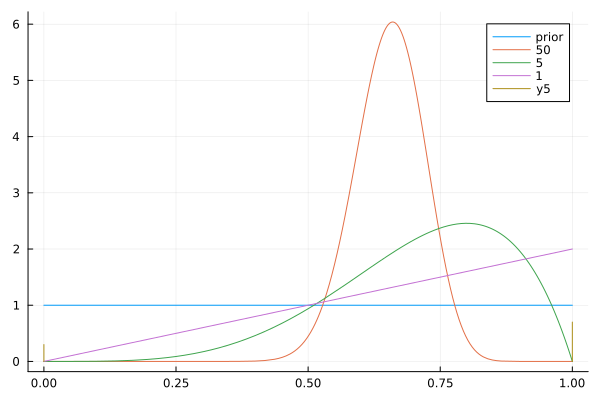
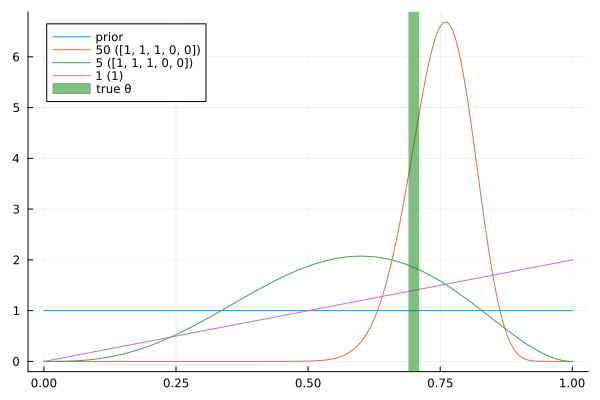
nun wir fuer jeden Schritt die selben samples verwendet

diff --git a/excercise1/exercise1.md b/excercise1/exercise1.md
@@ -6,9 +6,16 @@
 
 ![](4c.png)
 
+Je mehr Samples man zieht, desto mehr nähert sich die Verteilung des Posteriors dem tatsächlichen `p` an.
+
 
 ### d)
 
 ![](4d.png)
+
+Der neue Prior ist nun keine Gleichverteilung mehr, sondern ähenlt der tatsächlichen Verteilung nun schon etwas mehr. Der Unterschied lässt sich gut an dem Posterior nach einem Experiment sehen (lila Kurve). Wo oben nur eine schiefe Linie zu sehen ist, ist der Posterior bei einem informierten Prior schon nach einem Experiment dem tatsächlichen Wert viel näher. Nach 5 oder auch 50 Experimenten ist der Unterschied aber nicht mehr auszumachen.
+
+### e)
+
 
 
